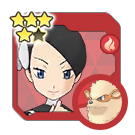
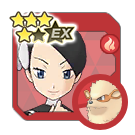
Add v2.35.0

diff --git a/js/syncpairs.js b/js/syncpairs.js
@@ -2114,7 +2114,8 @@ export const SYNCPAIRS = [
 		"images": [
 			"Sync Pairs/0D_SINNOH/0D_SINNOH_0E-03_Marley.png",
 			"Sync Pairs/4Star/0D_SINNOH_0E-03_Marley_4Star.png",
-			"Sync Pairs/5Star/0D_SINNOH_0E-03_Marley_5Star.png"
+			"Sync Pairs/5Star/0D_SINNOH_0E-03_Marley_5Star.png",
+			"Sync Pairs/0D_SINNOH/0D_SINNOH_0E-03_Marley_EX.png"
 		],
 		"themes": [
 			"Fire",
@@ -4341,6 +4342,38 @@ export const SYNCPAIRS = [
 		]
 	},
 	{
+		"dexNumber": "071",
+		"trainerName": "Calem",
+		"trainerAlt": "Lodge",
+		"pokemonNumber": "0653",
+		"pokemonName": "Fennekin",
+		"pokemonGender": "♂",
+		"pokemonForm": [],
+		"pokemonType": "Fire",
+		"pokemonWeak": "Ground",
+		"syncPairRole": "Special Strike",
+		"syncPairRarity": "4",
+		"releaseDate": "2023-08-01",
+		"syncPairRegion": "Kalos",
+		"images": [
+			"Sync Pairs/0F_KALOS/0F_KALOS_0A-01_TL_Calem.png",
+			"Sync Pairs/5Star/0F_KALOS_0A-01_TL_Calem_5Star.png",
+			"Sync Pairs/0F_KALOS/0F_KALOS_0A-01_TL_Calem_EX.png"
+		],
+		"themes": [
+			"Fire",
+			"Kalos",
+			"Main Character",
+			"Sunglasses"
+		],
+		"tags": [
+			"Starter",
+			"Trainer Lodge",
+			"Multiple Units",
+			"isMan"
+		]
+	},
+	{
 		"dexNumber": "072",
 		"trainerName": "Glacia",
 		"trainerAlt": "",
@@ -6245,7 +6278,9 @@ export const SYNCPAIRS = [
 		"tags": [
 			"Gen Pool",
 			"Multiple Units",
-			"isMan"
+			"isMan",
+			"Grid3",
+			"GridExpansion",
 		]
 	},
 	{
@@ -7431,6 +7466,44 @@ export const SYNCPAIRS = [
 		]
 	},
 	{
+		"dexNumber": "111",
+		"trainerName": "Gloria",
+		"trainerAlt": "Alt. 2",
+		"pokemonNumber": "0815",
+		"pokemonName": "Cinderace",
+		"pokemonGender": "♂",
+		"pokemonForm": [
+			"Dynamax",
+			"Gigantamax"
+		],
+		"pokemonType": "Fire",
+		"pokemonWeak": "Ground",
+		"syncPairRole": "Tech",
+		"syncPairRarity": "5",
+		"releaseDate": "2023-08-02",
+		"syncPairRegion": "Galar",
+		"images": [
+			"Sync Pairs/0H_GALAR/0H_GALAR_0A-02_GymGloria.png",
+			"Sync Pairs/0H_GALAR/0H_GALAR_0A-02_GymGloria_EX.png"
+		],
+		"themes": [
+			"Fire",
+			"Galar",
+			"Main Character",
+			"Passionate Spirit",
+			"Galar Adventurer"
+		],
+		"tags": [
+			"Starter",
+			"Grid5",
+			"Limited Sync Pair Scout",
+			"Poké Fair",
+			"Multiple Units",
+			"isWoman",
+			"Rebuff"
+		]
+	},
+	{
 		"dexNumber": "112",
 		"trainerName": "N",
 		"trainerAlt": "",
@@ -8140,6 +8213,40 @@ export const SYNCPAIRS = [
 			"Multiple Units",
 			"isMan",
 			"Legendary"
+		]
+	},
+	{
+		"dexNumber": "118",
+		"trainerName": "Leon",
+		"trainerAlt": "Alt",
+		"pokemonNumber": "0887",
+		"pokemonName": "Dragapult",
+		"pokemonGender": "♂",
+		"pokemonForm": ["Dynamax"],
+		"pokemonType": "Dragon",
+		"pokemonWeak": "Dark",
+		"syncPairRole": "Tech",
+		"syncPairRarity": "5",
+		"releaseDate": "2023-07-31",
+		"syncPairRegion": "Galar",
+		"images": [
+			"Sync Pairs/0H_GALAR/0H_GALAR_0C-01_TowerLeon.png",
+			"Sync Pairs/0H_GALAR/0H_GALAR_0C-01_TowerLeonEX.png"
+		],
+		"themes": [
+			"Dragon",
+			"Galar",
+			"Champion",
+			"Battle Facility Foe",
+			"Passionate Spirit"
+		],
+		"tags": [
+			"Grid5",
+			"Buddy Move",
+			"Limited Sync Pair Scout",
+			"Poké Fair",
+			"Multiple Units",
+			"isMan"
 		]
 	},
 	{
@@ -9052,7 +9159,9 @@ export const SYNCPAIRS = [
 			"Poké Fair",
 			"Multiple Units",
 			"isMan",
-			"Weather"
+			"Weather",
+			"Grid5",
+			"GridExpansion",
 		]
 	},
 	{
@@ -10052,7 +10161,40 @@ export const SYNCPAIRS = [
 			"Limited Sync Pair Scout",
 			"Poké Fair",
 			"Starter",
-			"Grid5"
+			"Grid5",
+			"Multiple Units"
+		]
+	},
+	{
+		"dexNumber": "157",
+		"trainerName": "Victor",
+		"trainerAlt": "Event",
+		"pokemonNumber": "0897",
+		"pokemonName": "Spectrier",
+		"pokemonGender": "",
+		"pokemonForm": ["Dynamax"],
+		"pokemonType": "Ghost",
+		"pokemonWeak": "Dark",
+		"syncPairRole": "Field",
+		"syncPairRarity": "5",
+		"releaseDate": "2023-08-16",
+		"syncPairRegion": "Galar",
+		"images": [
+			"Sync Pairs/0H_GALAR/0H_GALAR_0A-01_SpecialVictor.png",
+			"Sync Pairs/0H_GALAR/0H_GALAR_0A-01_SpecialVictor_EX.png"
+		],
+		"themes": [
+			"Ghost",
+			"Galar",
+			"Main Character",
+			"Galar Adventurer"
+		],
+		"tags": [
+			"Legendary",
+			"Limited Event",
+			"Wish Zone",
+			"Multiple Units",
+			"isMan"
 		]
 	},
 	{
@@ -10571,6 +10713,98 @@ export const SYNCPAIRS = [
 			"isWoman",
 			"Rebuff"
 		]
+	},
+	{
+		"dexNumber": "171",
+		"trainerName": "Olympia",
+		"trainerAlt": "",
+		"pokemonNumber": "0561",
+		"pokemonName": "Sigilyph",
+		"pokemonGender": "♀",
+		"pokemonForm": [],
+		"pokemonType": "Psychic",
+		"pokemonWeak": "Ghost",
+		"syncPairRole": "Tech",
+		"syncPairRarity": "5",
+		"releaseDate": "2023-08-04",
+		"syncPairRegion": "Kalos",
+		"images": [
+			"Sync Pairs/0F_KALOS/0F_KALOS_0B-07_Olympia.png",
+			"Sync Pairs/0F_KALOS/0F_KALOS_0B-07_Olympia_EX.png"
+		],
+		"themes": [
+			"Psychic",
+			"Kalos",
+			"Gym Leader",
+			"Supernatural",
+			"Cape"
+		],
+		"tags": [
+			"Gen Pool",
+			"isWoman"
+		]
+	},
+	{
+		"dexNumber": "172",
+		"trainerName": "Drasna",
+		"trainerAlt": "",
+		"pokemonNumber": "0691",
+		"pokemonName": "Dragalge",
+		"pokemonGender": "♀",
+		"pokemonForm": [],
+		"pokemonType": "Dragon",
+		"pokemonWeak": "Psychic",
+		"syncPairRole": "Tech",
+		"syncPairRarity": "5",
+		"releaseDate": "2023-08-07",
+		"syncPairRegion": "Kalos",
+		"images": [
+			"Sync Pairs/0F_KALOS/0F_KALOS_0C-04_Drasna.png",
+			"Sync Pairs/0F_KALOS/0F_KALOS_0C-04_Drasna_EX.png"
+		],
+		"themes": [
+			"Dragon",
+			"Kalos",
+			"Elite Four",
+			"Free Spirit"
+		],
+		"tags": [
+			"Gen Pool",
+			"isWoman"
+		]
+	},
+	{
+		"dexNumber": "173",
+		"trainerName": "Nemona",
+		"trainerAlt": "",
+		"pokemonNumber": "0923",
+		"pokemonName": "Pawmot",
+		"pokemonGender": "♂",
+		"pokemonForm": [],
+		"pokemonType": "Electric",
+		"pokemonWeak": "Psychic",
+		"syncPairRole": "Sprint",
+		"syncPairRarity": "5",
+		"releaseDate": "2023-08-08",
+		"syncPairRegion": "Rival",
+		"images": [
+			"Sync Pairs/0J_PALDEA/0J_PALDEA_0A-03_Nemona.png",
+			"Sync Pairs/0J_PALDEA/0J_PALDEA_0A-03_Nemona_EX.png"
+		],
+		"themes": [
+			"Electric",
+			"Rival",
+			"Champion",
+			"Passionate Spirit"
+		],
+		"tags": [
+			"Grid5",
+			"Buddy Move",
+			"Limited Sync Pair Scout",
+			"Poké Fair",
+			"isWoman",
+			"Paldea"
+		]
 	}
 	/*,
 	{
@@ -10625,11 +10859,12 @@ export const SYNCPAIRS = [
 			"Special Costume",
 			"Anniversary",
 			"Variety",
-			"Rebuff"
+			"Rebuff",
+			"Z-Move"
 		]
 	}
 	*/
 ]
 
 
-export const VERSION = "v2.34.0";
+export const VERSION = "v2.35.0";

diff --git a/index.html b/index.html
@@ -219,6 +219,8 @@
 						<button type="button" class="btn filterRole" value='Strike<'><img src="images/role_strike.png">Strike</button>
 						<button type="button" class="btn filterRole" value='Tech<'><img src="images/role_tech.png">Tech</button>
 						<button type="button" class="btn filterRole" value='Support<'><img src="images/role_support.png">Support</button>
+						<button type="button" class="btn filterRole" value='Sprint<'><img src="images/role_sprint.png">Sprint</button>
+						<button type="button" class="btn filterRole" value='Field<'><img src="images/role_field.png">Field</button>
 					</div>
 
 					<div class="buttonGroup">
@@ -232,6 +234,7 @@
 						<button type="button" class="btn filterRegion" value='"infoSyncPairRegion">Alola'>Alola</button>
 						<button type="button" class="btn filterRegion" value='"infoSyncPairRegion">Galar'>Galar</button>
 						<button type="button" class="btn" value='Hisui'>Hisui</button>
+						<button type="button" class="btn" value='Paldea'>Paldea</button>
 						<button type="button" class="btn filterRegion" value='"infoSyncPairRegion">Pasio'>Pasio</button>
 					</div>
 

diff --git a/js/script.js b/js/script.js
@@ -7,7 +7,7 @@ const syncStarImgs = ["images/star/1.png","images/star/2.png","images/star/3.png
 const syncStarImgs2 = ["images/star1.png","images/star2.png","images/star3.png","images/star4.png","images/star5.png","images/star6ex.png"];
 const syncFavImgs = ["images/favorite1.png","images/favoriteG.png","images/favoriteY.png","images/favoriteO.png","images/favoriteR.png","images/favoriteV.png","images/favoriteB.png","images/favorite2.png"];
 const typesOrder = {"normal":"01","fire":"02","water":"03","electric":"04","grass":"05","ice":"06","fighting":"07","poison":"08","ground":"09","flying":"10","psychic":"11","bug":"12","rock":"13","ghost":"14","dragon":"15","dark":"16","steel":"17","fairy":"18"};
-const rolesOrder = {"physical strike":"01","special strike":"01","tech":"02","support":"03"};
+const rolesOrder = {"physical strike":"01","special strike":"01","tech":"02","support":"03","sprint":"04","field":"05"};
 const regionsOrder = {"pasio":"00","kanto":"01","johto":"02","hoenn":"03","sinnoh":"04","unova":"05","kalos":"06","alola":"07","galar":"08","paldea":"09"}
 
 

diff --git a/js/news.js b/js/news.js
@@ -1,5 +1,9 @@
 export const NEWS = [
 	{
+		"date": "2023-07-27",
+		"info" : "Add v2.35.0"
+	},
+	{
 		"date": "2023-06-28",
 		"info" : "Add v2.34.0"
 	},
